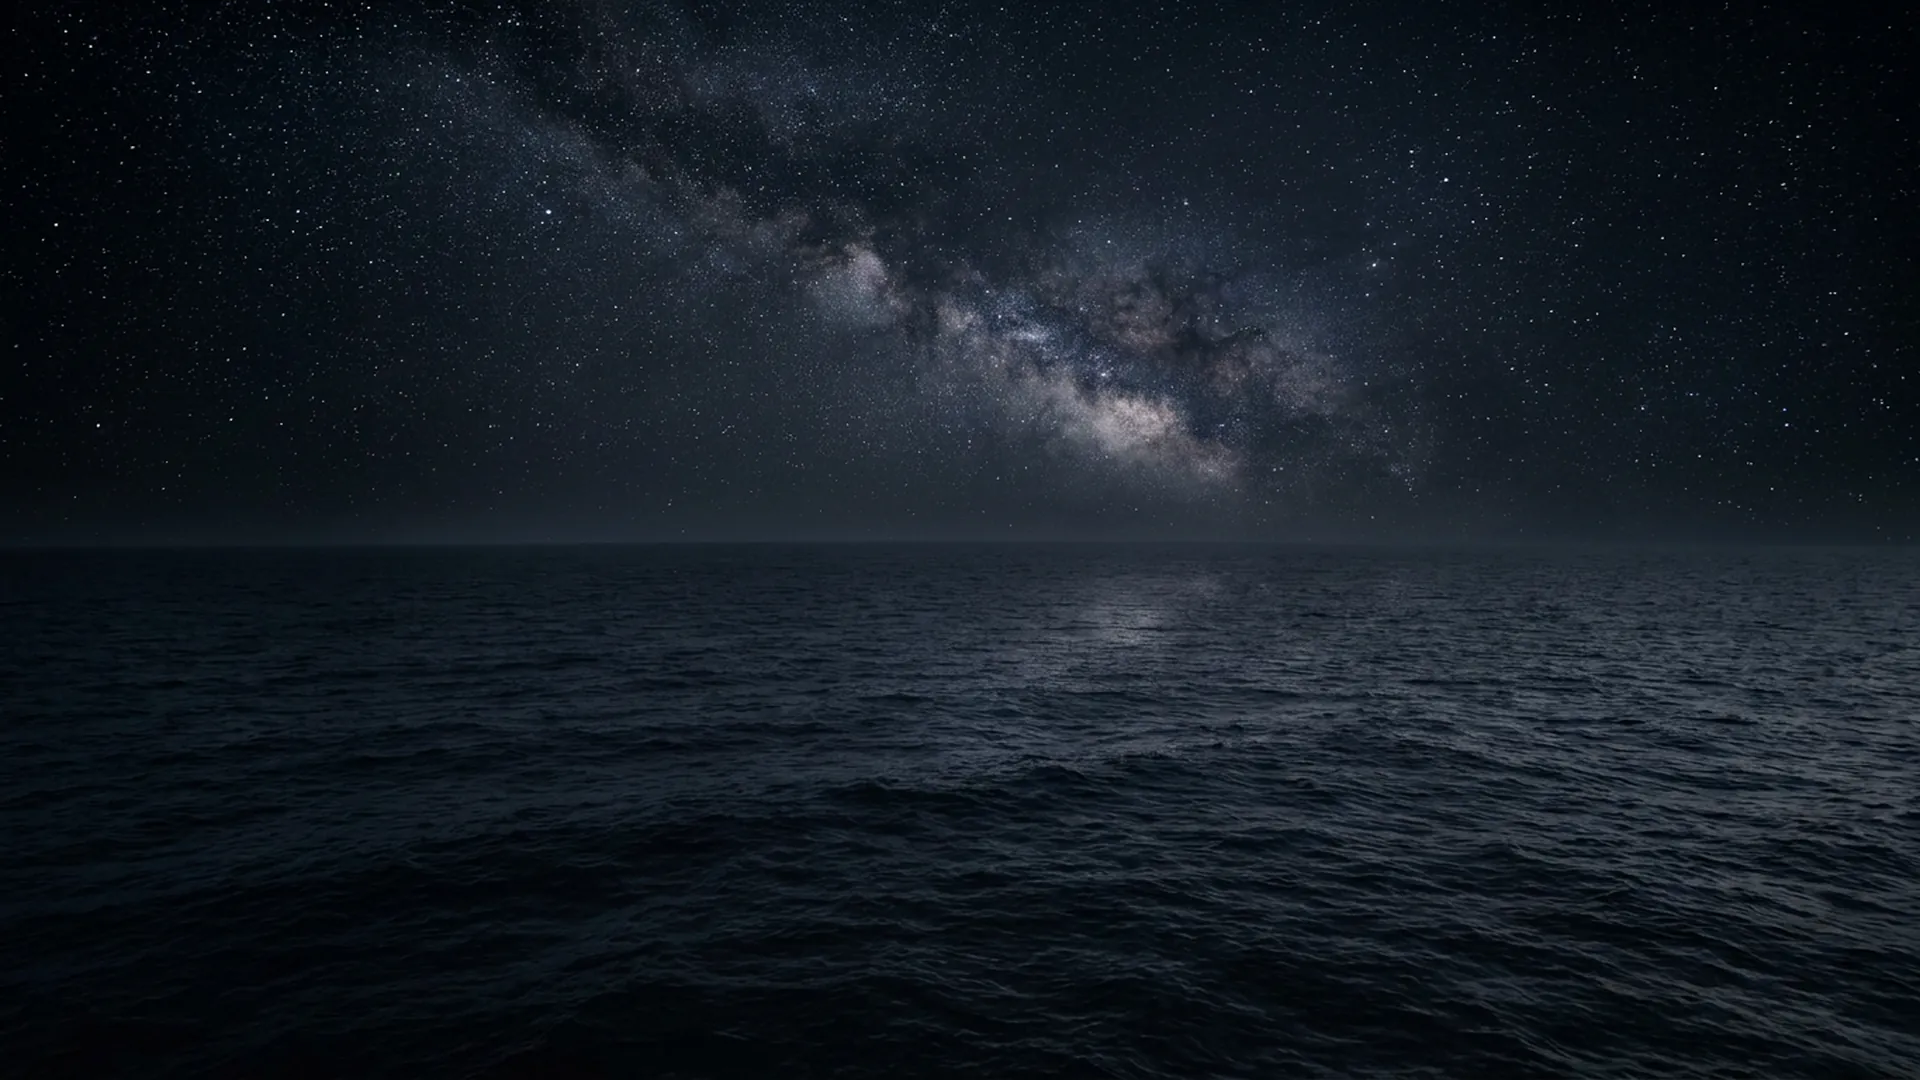
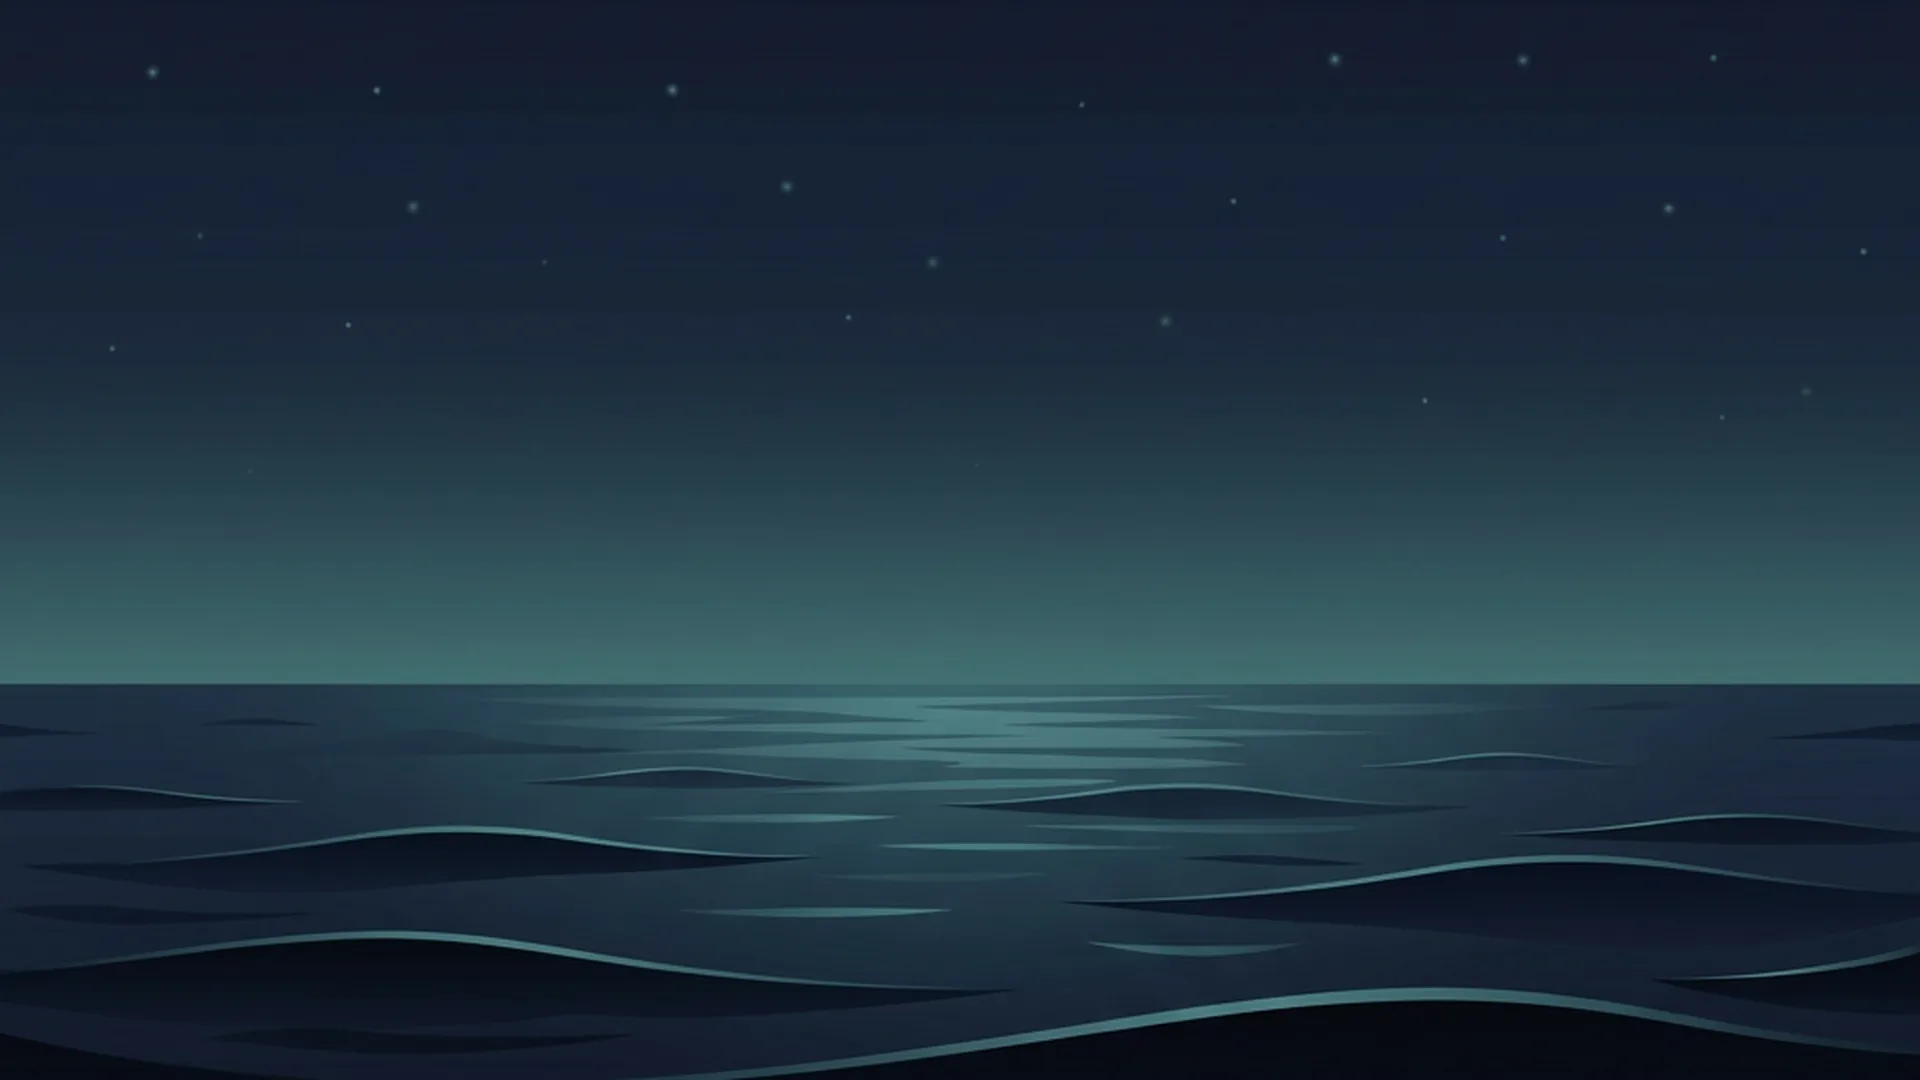
Nye kortbilder (manøver, utkikk/fart, definisjoner) og bg-natt (#20)
Claude-Session: https://claude.ai/code/session_01NcyN7BEBBVV2EE2iccZYNQ

diff --git a/tools/prep-kort.py b/tools/prep-kort.py
@@ -5,7 +5,7 @@ import sys, os, glob
 from PIL import Image
 src = sys.argv[1]
 OUT = os.path.join(os.path.dirname(os.path.abspath(__file__)), "..", "static", "img")
-YOFF = {"kort-lanterner": 0.5, "kort-hvem-viker": 0.45, "kort-lydsignaler": 0.5}
+YOFF = {"kort-definisjoner": 0.43, "kort-lanterner": 0.5, "kort-hvem-viker": 0.45, "kort-lydsignaler": 0.5}
 def crop(im, ratio, y_off):
     w, h = im.size
     if w / h > ratio:

diff --git a/content/en/games/definitions.md b/content/en/games/definitions.md
@@ -3,7 +3,7 @@ title: "Definitions"
 description: "Rules 1–4 and 38 of the collision regulations: application, responsibility, definitions (underway, in sight, restricted visibility, vessel engaged in fishing) and exemptions. Practise with drawings from above, a timer and score."
 translationKey: "definisjoner"
 weight: 7
-gorsel: ""
+gorsel: "img/kort-definisjoner.webp"
 lenke: "definisjoner/?lang=en"
 lisens: "CC BY-SA 3.0"
 lisensLenke: "https://creativecommons.org/licenses/by-sa/3.0/"

diff --git a/content/nb/spill/definisjoner.md b/content/nb/spill/definisjoner.md
@@ -3,7 +3,7 @@ title: "Definisjoner"
 description: "Regel 1–4 og 38 i sjøveisreglene: anvendelse, ansvar, definisjoner (underveis, i sikte, nedsatt sikt, fartøy som fisker) og fritak. Øv med tegninger ovenfra, tidtaker og poeng."
 translationKey: "definisjoner"
 weight: 7
-gorsel: ""
+gorsel: "img/kort-definisjoner.webp"
 lenke: "definisjoner/"
 lisens: "CC BY-SA 3.0"
 lisensLenke: "https://creativecommons.org/licenses/by-sa/3.0/deed.no"
